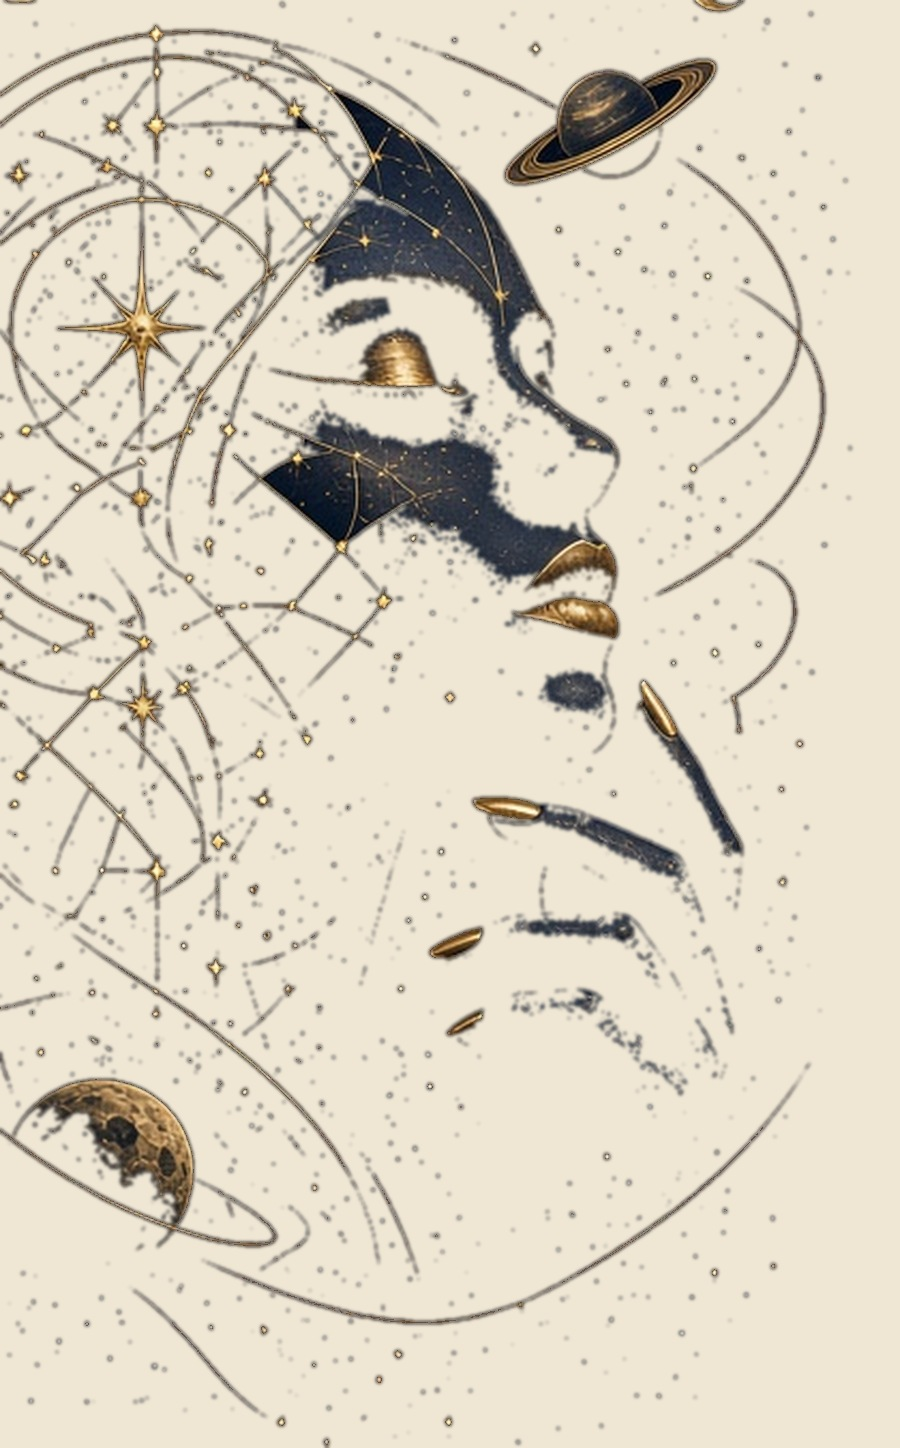
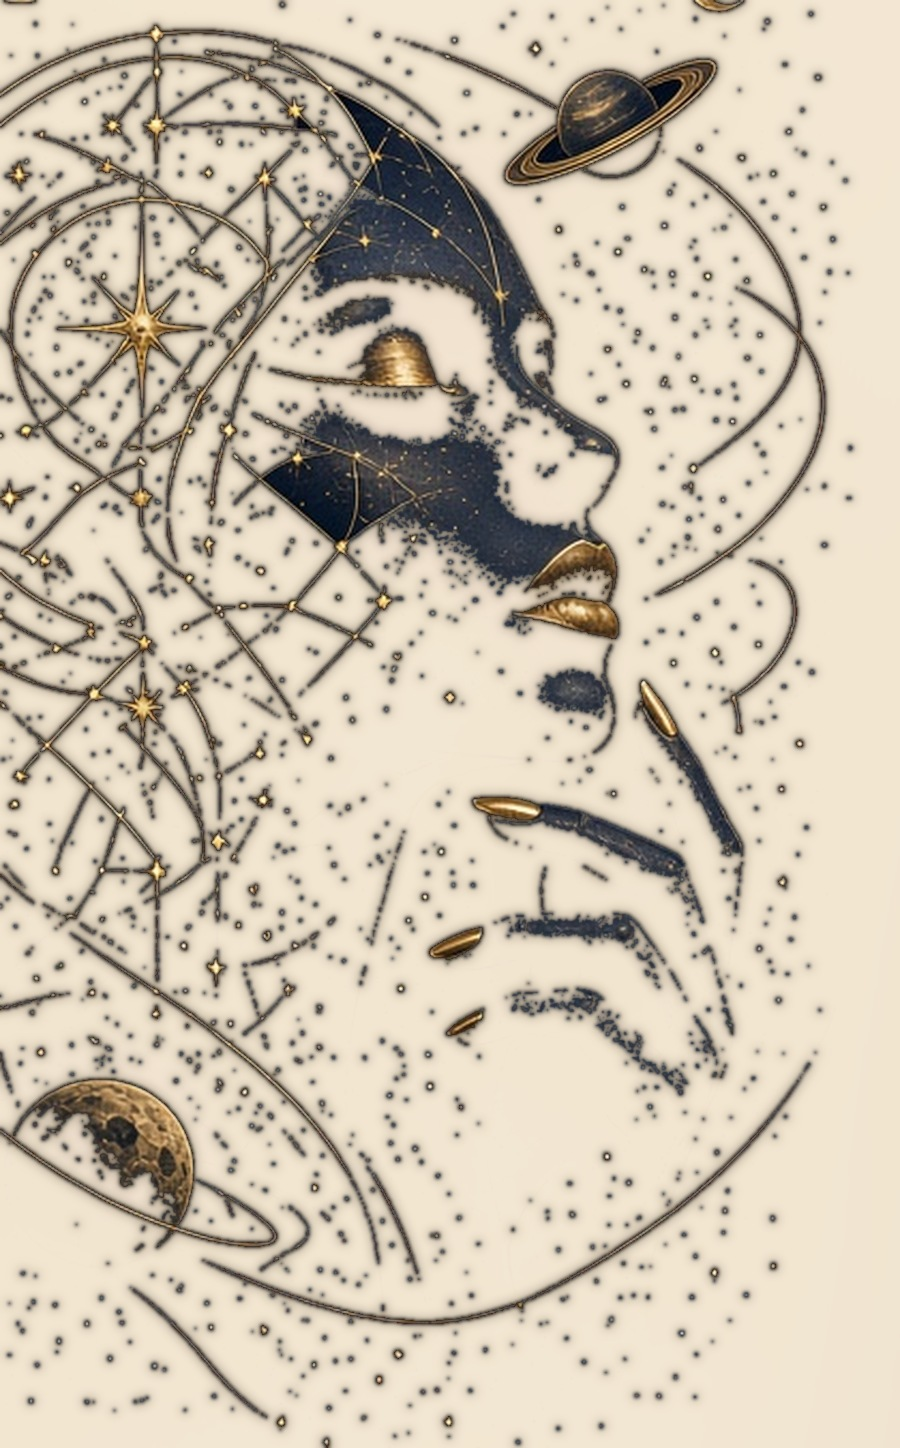
Soften light mystic art into cream nebula wash
Replace flat cream paste with warm peach/cream clouds and soft
silhouette edges; keep dark-mode navy asset unchanged.

diff --git a/app/Views/hoy/index.php b/app/Views/hoy/index.php
@@ -180,7 +180,7 @@ $interpFor = static function ($body) use ($interpretations): string {
         decoding="async"
       >
       <img
-        src="/assets/img/mystic-woman-profile-light.jpg"
+        src="/assets/img/mystic-woman-profile-light.jpg?v=cream-integrated1"
         alt=""
         class="mystic-portrait mystic-portrait--light"
         width="768"
